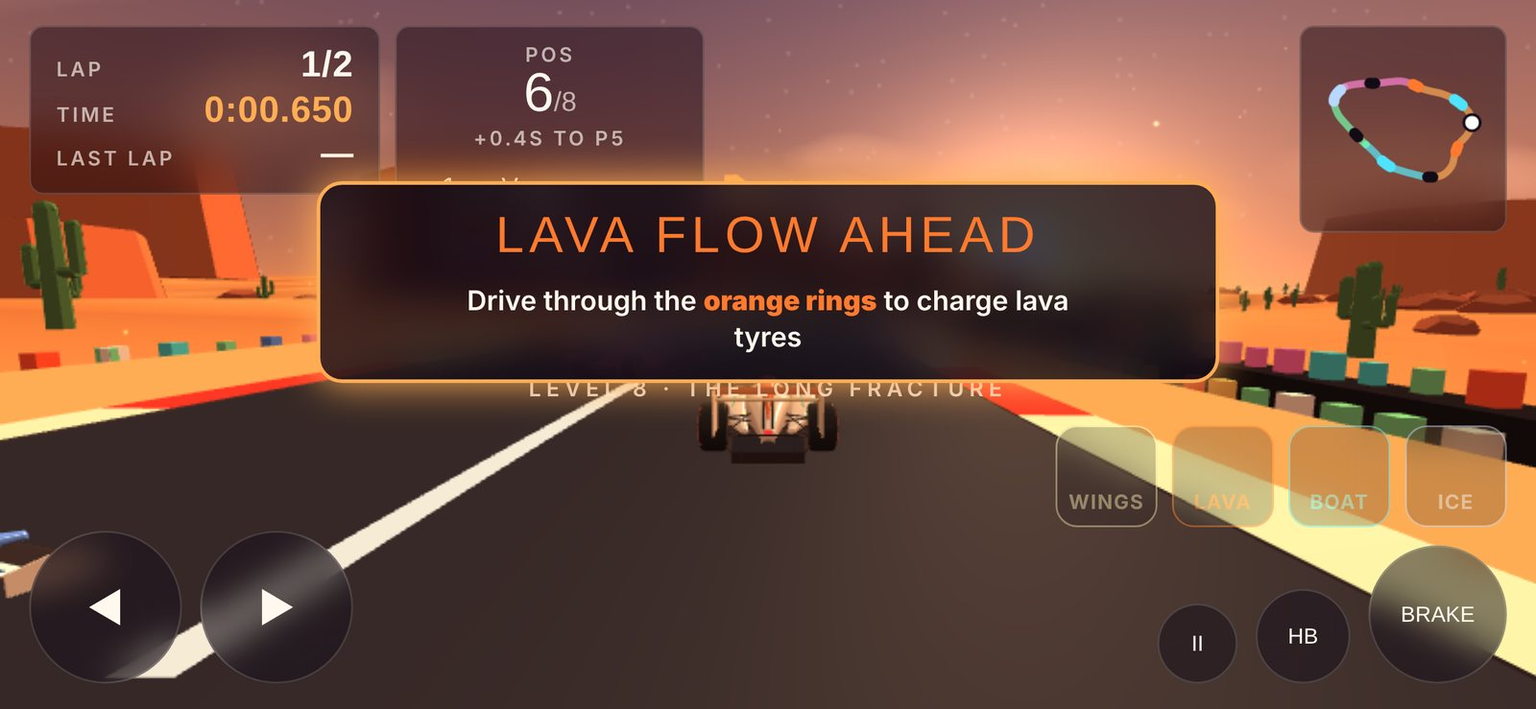
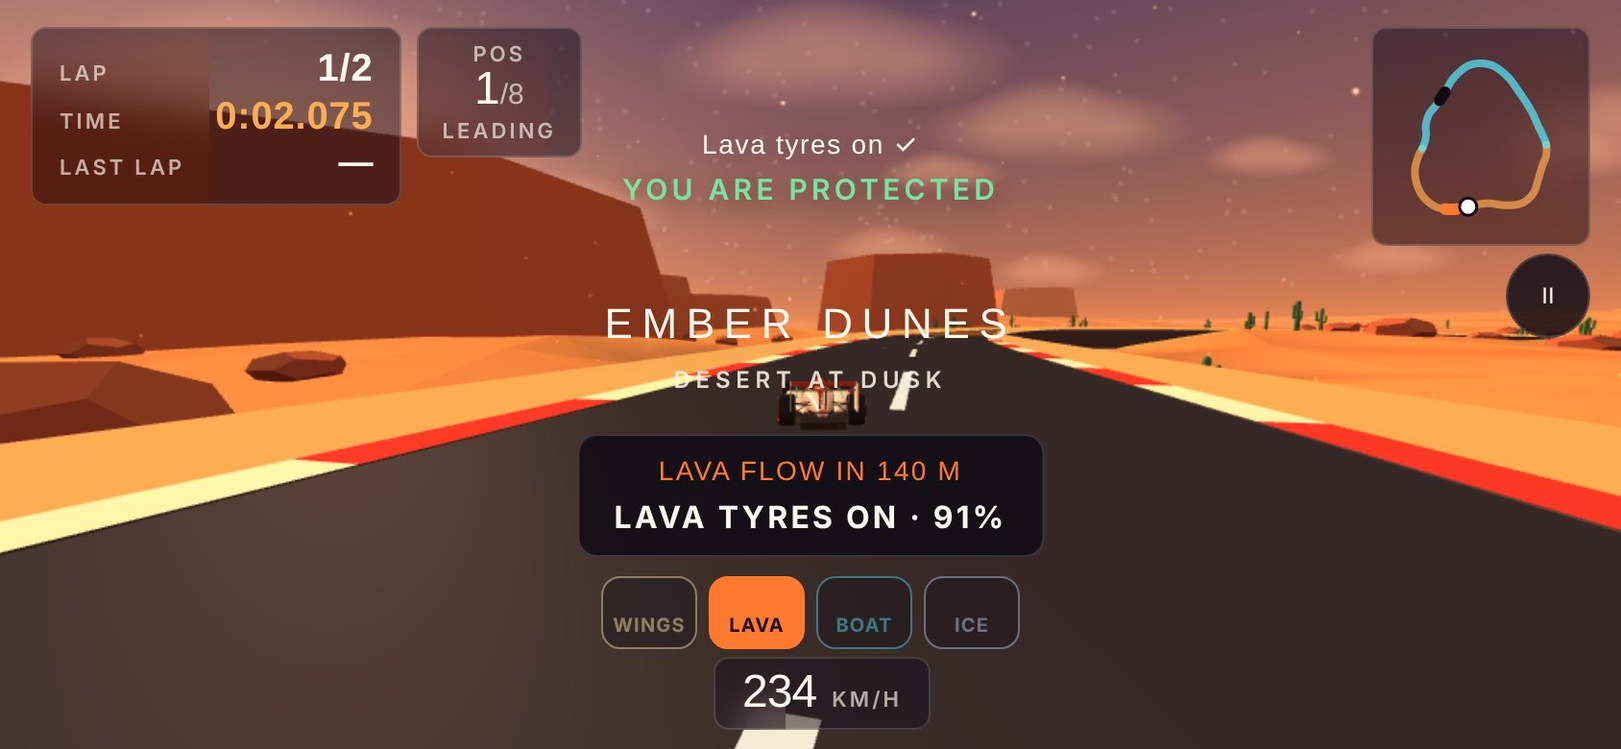
NFS-style touch controls and forced landscape on phones
- Hold left/right half of the screen to steer, swipe up for the power
  needed at the hazard ahead, swipe down to drift, hold both to brake
- Game draws itself sideways when a phone is held upright; tries full
  screen + landscape lock on Android
- Coach overlay during the countdown, swipe wording in tutorials
- Two-column title screen on short landscape screens
- README controls section and phone screenshots updated

Claude-Session: https://claude.ai/code/session_01FSBBRBtWEs9Dybw4UyTyot

diff --git a/css/style.css b/css/style.css
@@ -73,7 +73,7 @@ body:not(.racing) #hud{display:none}
 #zoneBanner .zn{font-family:var(--display);font-size:clamp(22px,5vw,46px);letter-spacing:.22em;text-transform:uppercase;text-shadow:0 4px 30px rgba(0,0,0,.35)}
 #zoneBanner .zs{font-size:15px;letter-spacing:.24em;text-transform:uppercase;opacity:.85;margin-top:8px;font-weight:600}
 #prompt{position:fixed;left:50%;bottom:calc(env(safe-area-inset-bottom,0px) + 150px);transform:translateX(-50%);display:flex;flex-direction:column;align-items:center;gap:6px;pointer-events:none;
-  background:var(--panel-solid);border:1px solid var(--line);border-radius:10px;padding:10px 18px;text-align:center;max-width:calc(100vw - 32px)}
+  background:var(--panel-solid);border:1px solid var(--line);border-radius:10px;padding:10px 18px;text-align:center;max-width:calc(var(--appw,100vw) - 32px)}
 #prompt .ph{font-family:var(--display);font-size:clamp(14px,2.2vw,19px);letter-spacing:.08em;text-transform:uppercase}
 #prompt .pa{font-size:16px;font-weight:700;letter-spacing:.1em;text-transform:uppercase;color:var(--ink);display:flex;align-items:center;gap:8px}
 #prompt kbd{font-size:16px;padding:3px 10px;background:var(--ink);color:#1a0d12;border-color:var(--ink)}
@@ -82,7 +82,7 @@ body:not(.racing) #hud{display:none}
 #prompt .pbar{width:180px;height:6px;border-radius:3px;background:var(--line);overflow:hidden}#prompt .pbar b{display:block;height:100%;background:var(--hot)}
 @keyframes urg{to{box-shadow:0 0 22px var(--accent)}}
 #tutor{position:fixed;left:50%;top:50%;transform:translate(-50%,-30%);pointer-events:none;text-align:center;display:grid;gap:10px;justify-items:center;
-  background:rgba(14,9,20,.78);backdrop-filter:blur(10px);-webkit-backdrop-filter:blur(10px);border:2px solid var(--accent);border-radius:14px;padding:18px 26px 20px;width:min(460px,calc(100vw - 32px));
+  background:rgba(14,9,20,.78);backdrop-filter:blur(10px);-webkit-backdrop-filter:blur(10px);border:2px solid var(--accent);border-radius:14px;padding:18px 26px 20px;width:min(460px,calc(var(--appw,100vw) - 32px));
   animation:tutIn .25s ease-out,urg .6s ease-in-out .25s infinite alternate}
 #tutor .tw{font-family:var(--display);font-size:clamp(18px,3.4vw,28px);letter-spacing:.1em;text-transform:uppercase}
 #tutor .tk{font-family:var(--display);font-size:clamp(20px,4vw,34px);letter-spacing:.06em;text-transform:uppercase;display:flex;align-items:center;gap:12px}
@@ -91,12 +91,12 @@ body:not(.racing) #hud{display:none}
 #tutor .tx{font-size:18px;font-weight:600;line-height:1.3;color:var(--ink);max-width:36ch}
 @keyframes tutIn{from{opacity:0;transform:translate(-50%,-20%) scale(.92)}}
 body:not(.racing) #tutor,body.paused #tutor{display:none}
-@media (pointer:coarse){#tutor{top:34%;padding:12px 16px 14px}#tutor .tx{font-size:15px}}
+
 @media (prefers-reduced-motion:reduce){#tutor{animation:none}}
 #wipe{position:fixed;inset:0;pointer-events:none;background:radial-gradient(ellipse at center,rgba(255,90,40,.0),rgba(255,60,30,.55));opacity:0}
 #wipe.on{animation:wipe .9s ease-out}@keyframes wipe{0%{opacity:1}100%{opacity:0}}
 body:not(.racing) #prompt{display:none}
-@media (pointer:coarse){#prompt{bottom:calc(env(safe-area-inset-bottom,0px) + 190px)}}
+
 @media (prefers-reduced-motion:reduce){#prompt.urgent{animation:none}}
 #gainPop{position:fixed;left:50%;top:60%;transform:translate(-50%,0);font-family:var(--display);font-size:16px;letter-spacing:.06em;text-shadow:0 2px 12px rgba(0,0,0,.6);pointer-events:none;opacity:0}
 #gainPop.show{animation:pop .8s ease-out}
@@ -123,7 +123,7 @@ body.racing:not(.paused) #screens{display:none}
 .intro{display:grid;gap:8px;max-width:48ch}
 .tagline{font-family:var(--display);font-size:clamp(15px,2.2vw,19px);letter-spacing:.06em;text-transform:uppercase;color:var(--ink);margin:0;text-wrap:balance;text-shadow:0 2px 16px rgba(0,0,0,.5)}
 .lede{font-size:17px;line-height:1.42;color:var(--ink);opacity:.82;max-width:48ch;margin:0;text-shadow:0 1px 12px rgba(0,0,0,.55)}
-@media (max-width:560px),(max-height:520px){.lede{font-size:15px;line-height:1.35}.tagline{font-size:14px}}
+
 .modes{display:grid;gap:10px;max-width:420px}
 .mode{display:grid;grid-template-columns:1fr auto;align-items:center;gap:4px 14px;text-align:left;cursor:pointer;background:var(--panel-solid);border:1px solid var(--line);border-radius:10px;padding:16px 18px}
 .mode:hover{border-color:var(--accent)}
@@ -180,41 +180,50 @@ h2{font-family:var(--display);font-weight:400;font-size:clamp(22px,5vw,30px);lin
 kbd{font-family:var(--ui);font-weight:700;font-size:12px;letter-spacing:.06em;color:var(--ink);border:1px solid var(--line);border-bottom-width:2px;border-radius:4px;padding:2px 6px;white-space:nowrap}
 #loading{position:fixed;right:max(20px,env(safe-area-inset-right,0px));bottom:calc(env(safe-area-inset-bottom,0px) + 20px);font-size:13px;letter-spacing:.2em;text-transform:uppercase;color:var(--dim);font-weight:700;pointer-events:none}
 
-/* ---------- Touch ---------- */
+/* ---------- Touch (NFS-style: hold a side to steer, swipe for power / drift) ---------- */
+#app{position:fixed;inset:0;overflow:hidden}
+body.rot #app{inset:auto;top:0;left:0;transform-origin:0 0}
 .touchOnly{display:none}
-#touch{position:fixed;inset:auto 0 0 0;display:none;justify-content:space-between;pointer-events:none;
-  padding-left:max(16px,env(safe-area-inset-left,0px));padding-right:max(16px,env(safe-area-inset-right,0px));padding-block:0 calc(env(safe-area-inset-bottom,0px) + 14px)}
-#touch .grp{display:flex;gap:10px;pointer-events:auto;align-items:flex-end}
-.tbtn{width:62px;height:62px;border-radius:50%;border:1px solid var(--line);background:var(--panel);backdrop-filter:blur(10px);-webkit-backdrop-filter:blur(10px);font-family:var(--display);font-size:12px;display:flex;align-items:center;justify-content:center;touch-action:none;padding:0}
-.tbtn.on{background:var(--accent);color:#1a0d12}
-.tbtn.gas{width:76px;height:76px}
-.tbtn.fly{border-color:var(--wings);color:var(--wings)}
-.tbtn.steer{width:84px;height:84px;font-size:22px}
-#touch .grp.rgt{flex-direction:column;align-items:flex-end;gap:10px}
-.tpows{display:flex;gap:8px}
-.tpw{position:relative;width:56px;height:56px;border-radius:12px;border:1.5px solid var(--c);background:var(--panel-solid);backdrop-filter:blur(10px);-webkit-backdrop-filter:blur(10px);overflow:hidden;padding:0;touch-action:none;display:flex;align-items:flex-end;justify-content:center}
+#touchZone,#touchHud{display:none}
+#touchZone{position:fixed;inset:0;touch-action:none;-webkit-touch-callout:none}
+#touchZone i{position:absolute;top:0;bottom:0;width:50%;opacity:0;transition:opacity .12s}
+#touchZone .tzL{left:0;background:linear-gradient(90deg,rgba(255,248,238,.16),rgba(255,248,238,0) 45%)}
+#touchZone .tzR{right:0;background:linear-gradient(270deg,rgba(255,248,238,.16),rgba(255,248,238,0) 45%)}
+#touchZone i.on{opacity:1}
+#touchHud .tpows{position:fixed;left:50%;transform:translateX(-50%);bottom:calc(env(safe-area-inset-bottom,0px) + 52px);display:flex;gap:6px;z-index:3}
+.tpw{position:relative;width:50px;height:38px;border-radius:10px;border:1.5px solid var(--c);background:var(--panel-solid);overflow:hidden;padding:0;touch-action:none;display:flex;align-items:flex-end;justify-content:center}
 .tpw i{position:absolute;left:0;right:0;bottom:0;height:var(--f,0%);background:var(--c);opacity:.3}
-.tpw span{position:relative;font-size:11px;font-weight:700;letter-spacing:.06em;text-transform:uppercase;padding-bottom:6px;color:var(--c)}
+.tpw span{position:relative;font-size:10px;font-weight:700;letter-spacing:.06em;text-transform:uppercase;padding-bottom:5px;color:var(--c)}
 .tpw.on{background:var(--c)}.tpw.on span{color:#1a0d12}.tpw.on i{opacity:0}
 .tpw.empty{opacity:.4}
-@media (pointer:coarse) and (max-width:520px){
-  .tbtn.steer{width:68px;height:68px}
-  .tpows{display:grid;grid-template-columns:repeat(2,48px);gap:6px}.tpw{width:48px;height:48px;border-radius:10px}.tpw span{font-size:9px;padding-bottom:4px}
-  .tbtn.gas{width:64px;height:64px;font-size:10px}#touch .tbtn[data-k="hb"]{width:44px!important;height:44px!important}#pauseT{width:38px!important;height:38px!important}
-  #prompt{bottom:calc(env(safe-area-inset-bottom,0px) + 230px)}#tutor{top:30%}
-}
-.rotateHint{display:none;font-size:14px;font-weight:600;letter-spacing:.08em;text-transform:uppercase;color:var(--accent)}
-@media (pointer:coarse) and (orientation:portrait){.rotateHint{display:block}}
+.tpause{position:fixed;right:16px;top:132px;width:44px;height:44px;border-radius:50%;border:1px solid var(--line);background:var(--panel-solid);font-family:var(--display);font-size:12px;z-index:3;touch-action:none}
+#coach{position:fixed;inset:0;display:grid;grid-template-columns:1fr auto 1fr;align-items:center;pointer-events:none;z-index:2}
+#coach .ch{display:flex;flex-direction:column;align-items:center;gap:6px;font-size:14px;font-weight:700;letter-spacing:.1em;text-transform:uppercase;text-align:center}
+#coach .ch.l,#coach .ch.r{height:100%;justify-content:center;background:rgba(14,9,20,.35)}
+#coach .ch.l{border-right:1px dashed var(--line)}#coach .ch.r{border-left:1px dashed var(--line)}
+#coach .ch.l b,#coach .ch.r b{font-size:40px;line-height:1;color:var(--accent)}
+#coach .ch.c{align-self:end;margin-bottom:56px;background:var(--panel-solid);border:1px solid var(--line);border-radius:12px;padding:14px 18px;gap:8px;align-items:stretch;text-align:left;margin-inline:-1px}
+#coach .ch.c b{display:inline-block;min-width:40px;color:var(--accent);font-size:16px}
+#coach .ch.c em{font-style:normal;color:var(--accent)}
+#coach .ch.c small{font-size:11px;color:var(--dim);letter-spacing:.12em;text-align:center;margin-top:2px}
 @media (pointer:coarse){
-  #powers{display:none}
-  #zoneBanner{top:44%}#zoneBanner .zn{font-size:22px}#zoneBanner .zs{font-size:12px}
-  body.racing:not(.paused) #touch{display:flex}.touchOnly{display:grid}.deskOnly{display:none!important}
-  #minimap{width:96px;height:96px}#powers{min-width:0;padding:6px 8px;gap:4px}.pw{grid-template-columns:44px 1fr;font-size:11px}.pw span:last-child{display:none}
-  .bar.bottom .tools{display:none}#speedo{display:none}
-  .bar.bottom{position:fixed;left:50%;transform:translateX(-50%);bottom:calc(env(safe-area-inset-bottom,0px) + 100px);width:min(230px,60vw)}
+  #zoneBanner{top:40%}#zoneBanner .zn{font-size:22px}#zoneBanner .zs{font-size:12px}
+  body.racing:not(.paused) #touchZone{display:block}body.racing:not(.paused) #touchHud{display:block}
+  .touchOnly{display:grid}.deskOnly{display:none!important}
+  #minimap{width:96px;height:96px}
+  .bar.bottom .tools,.bar.bottom #powers{display:none}
+  .bar.bottom{position:fixed;left:50%;transform:translateX(-50%);bottom:calc(env(safe-area-inset-bottom,0px) + 10px);justify-content:center}
+  #speedo{display:flex;align-items:baseline;gap:8px;padding:6px 14px;min-width:0}#speedo>.lbl{order:2}#speed{font-size:24px}#rev,#speedo .speedRow{display:none}
+  #prompt{bottom:calc(env(safe-area-inset-bottom,0px) + 100px)}
+  #board{display:none}#posChip{padding:6px 12px}#posVal{font-size:24px}
+  #tutor{top:40%;padding:12px 16px 14px}#tutor .tx{font-size:15px}
+  #msg{top:calc(env(safe-area-inset-top,0px) + 66px)}
 }
-@media (max-width:560px){
-  .timing{padding:8px 10px;column-gap:10px}.val{font-size:15px}.val.big{font-size:15px}#minimap{width:96px;height:96px}
-  #screens{background:rgba(10,5,14,.55)}
-}
+body.narrow .timing{padding:8px 10px;column-gap:10px}body.narrow .val{font-size:15px}body.narrow .val.big{font-size:15px}body.narrow #minimap{width:96px;height:96px}
+body.narrow #screens{background:rgba(10,5,14,.55)}
+body.short .lede{font-size:14px;line-height:1.32}body.short .tagline{font-size:13px}body.short .screen{gap:12px}body.short .mode{padding:10px 14px}body.short .mode b{font-size:16px}body.short .logo img{width:min(380px,100%)}
+body.short .screen.card{padding:16px 16px 14px}
+body.short #scrTitle{width:min(920px,100%);display:grid;grid-template-columns:minmax(0,1.1fr) minmax(0,1fr);column-gap:28px;row-gap:10px;align-items:start;align-content:center}
+body.short #scrTitle .logo{grid-column:1}body.short #scrTitle .intro{grid-column:1}body.short #scrTitle .modes{grid-column:2;grid-row:1/3;align-self:center;max-width:none}
+body.short #scrTitle .lede{font-size:13px}body.short #scrTitle .mode span{font-size:13px}
 @media (prefers-reduced-motion:reduce){.pw.live .m b{animation:none}#gainPop.show{animation:none}#zoneBanner{transition:opacity .2s}}

diff --git a/js/game.js b/js/game.js
@@ -454,19 +454,38 @@ addEventListener('keydown',e=>{
 addEventListener('keyup',e=>{if(keyMap[e.code])keys[keyMap[e.code]]=false;});
 addEventListener('blur',()=>{for(const k in keys)keys[k]=false;});
 document.querySelectorAll('.tpw').forEach(b=>b.addEventListener('pointerdown',e=>{e.preventDefault();toggle(+b.dataset.p);}));
-document.querySelectorAll('.tbtn[data-k]').forEach(b=>{const k=b.dataset.k;
-  const on=e=>{e.preventDefault();keys[k]=true;b.classList.add('on');};const off=()=>{keys[k]=false;b.classList.remove('on');};
-  b.addEventListener('pointerdown',on);b.addEventListener('pointerup',off);b.addEventListener('pointercancel',off);b.addEventListener('pointerleave',off);});
+// Touch: hold left / right half to steer, swipe up = power for the hazard ahead, swipe down = drift, hold both = brake
+const tps=new Map();let hbUntil=0;
+const loc=e=>ROT?{x:e.clientY,y:innerWidth-e.clientX}:{x:e.clientX,y:e.clientY};
+function touchKeys(){let L=false,R2=false,dr=false;for(const p of tps.values()){if(p.g==='up')continue;if(p.side<0)L=true;else R2=true;if(p.g==='down')dr=true;}
+  const both=L&&R2;keys.down=both;keys.left=L&&!both;keys.right=R2&&!both;keys.hb=!both&&(dr||performance.now()<hbUntil);
+  $('touchZone').querySelector('.tzL').classList.toggle('on',L);$('touchZone').querySelector('.tzR').classList.toggle('on',R2);}
+const tz=$('touchZone');
+tz.addEventListener('pointerdown',e=>{e.preventDefault();const q=loc(e);tps.set(e.pointerId,{x0:q.x,y0:q.y,t0:performance.now(),side:q.x<AW/2?-1:1,g:null});try{tz.setPointerCapture(e.pointerId);}catch(_){}touchKeys();});
+tz.addEventListener('pointermove',e=>{const p=tps.get(e.pointerId);if(!p||p.g)return;const q=loc(e),dx=q.x-p.x0,dy=q.y-p.y0;
+  if(Math.abs(dy)>38&&Math.abs(dy)>Math.abs(dx)*1.15&&performance.now()-p.t0<600){p.g=dy<0?'up':'down';if(p.g==='up')smartPower();else{hbUntil=performance.now()+450;tone(180,120,.15,'square',.03);}touchKeys();}});
+const tend=e=>{const p=tps.get(e.pointerId);if(p&&p.g==='down')hbUntil=performance.now()+300;tps.delete(e.pointerId);touchKeys();};
+tz.addEventListener('pointerup',tend);tz.addEventListener('pointercancel',tend);
+setInterval(()=>{if(coarse&&mode==='race')touchKeys();},100);
+function targetPower(){let inside=-1,next=-1,bd=1e9;for(const h of HAZ){const len=h.b-h.a,into=((st.idx-h.a)%M+M)%M;if(into<len)inside=h.t;const d=((h.a-st.idx)%M+M)%M;if(d<bd&&d<420&&into>=len){bd=d;next=h.t;}}return inside>=0?inside:next;}
+function smartPower(){if(mode!=='race'||!race||race.state!=='run')return;const t=targetPower();
+  if(st.on[0]&&st.air&&t!==0){toggle(0);return;}
+  if(t<0){const on=st.on.findIndex(x=>x);if(on>=0){toggle(on);return;}if(st.pw[0]>0){toggle(0);return;}flash('Nothing to power up','Swipe up when a hazard is ahead','');return;}
+  toggle(t);}
+// try real fullscreen + landscape lock on phones (works on Android when hosted on its own site)
+let fsTried=false;function tryLandscape(){if(!coarse||fsTried)return;fsTried=true;try{const el=document.documentElement;const p=el.requestFullscreen?el.requestFullscreen({navigationUI:'hide'}):null;
+  if(p&&p.then)p.then(()=>{try{screen.orientation&&screen.orientation.lock&&screen.orientation.lock('landscape').catch(()=>{});}catch(_){}}).catch(()=>{});}catch(_){}}
+document.querySelectorAll('.mode').forEach(b=>b.addEventListener('pointerdown',tryLandscape));
 function resetToTrack(){if(hzAt(st.idx)===0||st.air){fell();return;}const i=st.idx;st.pos.copy(P(i,0,0));st.h=st.vh=head[i];st.speed=0;flash('Back on track','');}
 function cycleCam(){camMode=(camMode+1)%CAMS.length;$('camName').textContent=CAMS[camMode];}
 $('camBtn').onclick=cycleCam;$('pauseBtn').onclick=togglePause;$('pauseT').onclick=togglePause;
-function togglePause(){if(mode!=='race')return;paused=!paused;document.body.classList.toggle('paused',paused);
+function togglePause(){if(mode!=='race')return;paused=!paused;tps.clear();keys.left=keys.right=keys.down=keys.hb=false;document.body.classList.toggle('paused',paused);
   if(paused){$('pauseTitle').textContent=(race.multi?'Room '+roomCode+' · ':'')+'Level '+(race.li+1)+' · '+LEVELS[race.li].name;$('restartBtn').hidden=race.multi;show('scrPause');$('resumeBtn').focus();engine(false);}
   else{engine(true);}}
 $('resumeBtn').onclick=togglePause;
 $('restartBtn').onclick=()=>{paused=false;document.body.classList.remove('paused');startRace(race.li,race.kind);};
 $('quitBtn').onclick=()=>quitToMenu();
-function quitToMenu(){const wasMulti=race&&race.multi;if(race)lvlMode=race.kind==='gp'?'gp':'single';paused=false;document.body.classList.remove('paused','racing');mode='menu';race=null;engine(false);clearRemotes();clearAI();
+function quitToMenu(){$('coach').hidden=true;tps.clear();const wasMulti=race&&race.multi;if(race)lvlMode=race.kind==='gp'?'gp':'single';paused=false;document.body.classList.remove('paused','racing');mode='menu';race=null;engine(false);clearRemotes();clearAI();
   if(wasMulti){setP({s:'lobby',rr:null,f:null});show('scrLobby');}else show('scrLevels');}
 
 /* ---------- Audio ---------- */
@@ -551,7 +570,7 @@ function physics(dt,canDrive){
   return prev;
 }
 function wipeout(why){const w=$('wipe');w.classList.remove('on');void w.offsetWidth;w.classList.add('on');placeOnGrid(race&&race.multi?race.lane:0);if(race)race.dist=race.lapsDone*M;st.shake=.8;flash(why,'Back to the start line','var(--hot)');tone(300,60,.8,'sawtooth',.07);}
-const AK={up:true,down:false,left:false,right:false,hb:false};function autoK(){AK.up=!keys.down;AK.down=keys.down;AK.left=keys.left;AK.right=keys.right;AK.hb=keys.hb;return AK;}
+const AK={up:true,down:false,left:false,right:false,hb:false};/* auto-throttle on touch */function autoK(){AK.up=!keys.down;AK.down=keys.down;AK.left=keys.left;AK.right=keys.right;AK.hb=keys.hb;return AK;}
 function fell(){placeOnGrid(race&&race.multi?race.lane:0);if(race)race.dist=race.lapsDone*M;st.shake=.7;if(race)flash('Lost to the rift','Back to the start line','var(--hot)');tone(400,90,.7,'sawtooth',.06);}
 
 /* ---------- Race flow ---------- */
@@ -896,7 +915,7 @@ function perfGuard(dt){perfT+=dt;perfN++;if(perfT<3)return;const fps=perfN/perfT
 function render(){if(composer)composer.render();else renderer.render(scene,camera);}
 const ACT=['activate wings','switch on lava tyres','switch on the boat','switch on ice studs'];
 let promptKey='',tutKey='',tutorT=-1,slowMo=false;
-const TUTX=['to spread your wings and fly over the gap. Press again after you land to fold them.','to switch on lava tyres before you hit the lava.','to switch on the boat before the flood.','to switch on ice studs for grip on the ice.'],TUTC=['gold','orange','blue','ice-blue'];
+const TUTX=['to spread your wings and fly over the gap. '+(coarse?'Swipe up':'Press F')+' again after you land to fold them.','to switch on lava tyres before you hit the lava.','to switch on the boat before the flood.','to switch on ice studs for grip on the ice.'],TUTC=['gold','orange','blue','ice-blue'];
 function updPrompt(){
   let best=null,bd=1e9,inside=null;
   for(const h of HAZ){const d=((h.a-st.idx)%M+M)%M,len=h.b-h.a;if(d<=M-len-1&&d<bd&&d<230){bd=d;best=h;}const into=((st.idx-h.a)%M+M)%M;if(into<len)inside=h;}
@@ -917,7 +936,7 @@ function updPrompt(){
   if(best&&!inside&&race&&race.state==='run'){const t=best.t,p=PW[t];
     if((race.li<=2||!prog.seen[t])&&!st.on[t]){
       if(st.pw[t]>0&&bd<120){tk=t;slow=bd<95;
-        tut='<div class="tw" style="color:var('+p.css+')">'+p.hz+' ahead</div><div class="tk">'+(coarse?'Tap <b>'+['WINGS','LAVA','BOAT','ICE'][t]+'</b>':'Press <kbd>'+(t===0?'F':t+1)+'</kbd>')+'</div><div class="tx">'+TUTX[t]+'</div>';}
+        tut='<div class="tw" style="color:var('+p.css+')">'+p.hz+' ahead</div><div class="tk">'+(coarse?'Swipe <b>↑ UP</b>':'Press <kbd>'+(t===0?'F':t+1)+'</kbd>')+'</div><div class="tx">'+TUTX[t]+'</div>';}
       else if(st.pw[t]<=0&&bd<220){tut='<div class="tw" style="color:var('+p.css+')">'+p.hz+' ahead</div><div class="tx">Drive through the <b style="color:var('+p.css+')">'+TUTC[t]+' rings</b> to charge '+p.name.toLowerCase()+'</div>';}}}
   if(inside)for(const h of HAZ){const into=((st.idx-h.a)%M+M)%M;if(into>h.b-h.a-3&&into<h.b-h.a&&!prog.seen[h.t]){prog.seen[h.t]=1;saveProg();}}
   tutorT=tk;slowMo=slow;
@@ -925,7 +944,7 @@ function updPrompt(){
   if(tut)html='';
   const key=html+cls;if(key!==promptKey){promptKey=key;el.innerHTML=html;el.className=cls;el.hidden=!html;}
 }
-const keycap=t=>coarse?'<kbd>Tap '+['WINGS','LAVA','BOAT','ICE'][t]+'</kbd>':'<kbd>'+(t===0?'F':t+1)+'</kbd>';
+const keycap=t=>coarse?'<kbd>Swipe ↑</kbd>':'<kbd>'+(t===0?'F':t+1)+'</kbd>';
 function hudPowers(){for(let k=0;k<4;k++){const b=pwEls[k];b.querySelector('.m b').style.width=st.pw[k]+'%';b.lastElementChild.textContent=st.on[k]?'ON':Math.round(st.pw[k])+'%';b.classList.toggle('has',st.pw[k]>0);b.classList.toggle('live',st.on[k]);}
   if(coarse)document.querySelectorAll('.tpw').forEach((b,k)=>{b.style.setProperty('--f',st.pw[k]+'%');b.classList.toggle('on',st.on[k]);b.classList.toggle('empty',st.pw[k]<=0);});}
 function frame(t){
@@ -953,7 +972,7 @@ function frame(t){
     if(race.countT>0){const m=Math.min(3,n);el.innerHTML='<div class="lights">'+[0,1,2].map(i=>'<i class="'+(i<4-m?'on':'')+'"></i>').join('')+'</div>'+m;}
     else{el.innerHTML='<div class="lights go"><i></i><i></i><i></i></div><span class="go">GO</span>';race.state='run';setLamps(0);race.t0=now;race.lapStart=now;gPtr=0;
       $('zoneName').textContent=ZONES[SEGZ[0]].name;$('zoneSub').textContent='Level '+(race.li+1)+' · '+LEVELS[race.li].name;$('zoneBanner').classList.add('show');bannerT=3;setTimeout(()=>{$('count').hidden=true;},900);}
-    physics(dt,false);updAI(dt,false);setLamps(race.countT);
+    physics(dt,false);updAI(dt,false);setLamps(race.countT);if(coarse&&$('coach').hidden)$('coach').hidden=false;
   }else if(race.state==='run'){
     const prev=physics(dt,canDrive);lapLogic(prev);if(race.gp){updAI(dt,true);collide();}
     if(race.state==='run'){
@@ -964,6 +983,7 @@ function frame(t){
     }
   }else{physics(dt,false);ghost.visible=false;slowMo=false;if(!$('tutor').hidden){$('tutor').hidden=true;tutKey='';}if(race.gp)updAI(dt,true);}
   if(race.state==='run'&&lampsOn&&now-race.t0>1.2){setLamps(-1);}
+  if(!$('coach').hidden&&race.state==='run'&&(now-race.t0>2||tps.size))$('coach').hidden=true;
   placeCar(dt);updTokens(dt);updTrail();updRemotes(dt);updParts(dt);
   {const slip=Math.abs(ang(st.h,st.vh));if(!st.air&&st.speed>14&&(slip>.22||(keys.down&&st.speed>28)))emit(st.pos,0,1);if(hzAt(st.idx)===1&&!st.on[1]&&!st.air)emit(st.pos,1,2);}
   worldUpdate(dt,st.idx,st.pos);updSparkles(dt,st.pos);
@@ -990,8 +1010,13 @@ function frame(t){
   if(bannerT>0){bannerT-=dt;if(bannerT<=0)$('zoneBanner').classList.remove('show');}
   render();drawMap();
 }
-function resize(){const w=window.innerWidth,h=window.innerHeight;renderer.setSize(w,h,false);if(composer)composer.setSize(w,h);camera.aspect=w/h;camera.updateProjectionMatrix();sizeMap();}
-window.addEventListener('resize',resize);
+let ROT=false,AW=innerWidth,AH=innerHeight;
+function layout(){const vw=innerWidth,vh=innerHeight;ROT=coarse&&vh>vw;AW=ROT?vh:vw;AH=ROT?vw:vh;const app=$('app');
+  document.body.classList.toggle('rot',ROT);
+  if(ROT){app.style.width=AW+'px';app.style.height=AH+'px';app.style.transform='translate('+vw+'px,0) rotate(90deg)';}else{app.style.width=app.style.height=app.style.transform='';}
+  document.documentElement.style.setProperty('--appw',AW+'px');document.body.classList.toggle('narrow',AW<=560);document.body.classList.toggle('short',AH<=520);}
+function resize(){layout();const w=AW,h=AH;renderer.setSize(w,h,false);if(composer)composer.setSize(w,h);camera.aspect=w/h;camera.updateProjectionMatrix();sizeMap();}
+window.addEventListener('resize',resize);window.addEventListener('orientationchange',()=>setTimeout(resize,250));
 // boot: the title fly-through uses the four-world level
 buildLevel(4);placeOnGrid(0);show('scrTitle');resize();worldUpdate(0,0,st.pos);refreshEnv();
 requestAnimationFrame(frame);

diff --git a/index.html b/index.html
@@ -8,7 +8,7 @@
 <meta name="theme-color" content="#120b16">
 <meta property="og:title" content="Reverush">
 <meta property="og:description" content="The world is breaking. The race is on. An F1 racer across broken magical worlds: transform your car at the perfect moment to fly over rifts, charge through lava, skim floods and grip the ice.">
-<meta property="og:image" content="assets/screenshots/title.jpg">
+<meta property="og:image" content="assets/screenshots/title.png">
 <meta property="og:type" content="website">
 <meta name="twitter:card" content="summary_large_image">
 <link rel="icon" type="image/png" href="assets/icon.png">
@@ -18,7 +18,9 @@
 <link rel="stylesheet" href="css/style.css">
 </head>
 <body>
+<div id="app">
 <div id="stage"></div>
+<div id="touchZone" aria-hidden="true"><i class="tzL"></i><i class="tzR"></i></div>
 
 <div id="hud">
   <div class="bar">
@@ -58,24 +60,19 @@
 <div id="gainPop" aria-hidden="true"></div>
 <div id="count" hidden></div>
 
-<div id="touch">
-  <div class="grp">
-    <button class="tbtn steer" data-k="left" type="button" aria-label="Steer left">◀</button>
-    <button class="tbtn steer" data-k="right" type="button" aria-label="Steer right">▶</button>
+<div id="touchHud">
+  <div class="tpows">
+    <button class="tpw" data-p="0" type="button" style="--c:var(--wings)" aria-label="Wings on or off"><i></i><span>Wings</span></button>
+    <button class="tpw" data-p="1" type="button" style="--c:var(--lava)" aria-label="Lava tyres on or off"><i></i><span>Lava</span></button>
+    <button class="tpw" data-p="2" type="button" style="--c:var(--boat)" aria-label="Boat on or off"><i></i><span>Boat</span></button>
+    <button class="tpw" data-p="3" type="button" style="--c:var(--ice)" aria-label="Ice studs on or off"><i></i><span>Ice</span></button>
   </div>
-  <div class="grp rgt">
-    <div class="tpows">
-      <button class="tpw" data-p="0" type="button" style="--c:var(--wings)" aria-label="Wings on or off"><i></i><span>Wings</span></button>
-      <button class="tpw" data-p="1" type="button" style="--c:var(--lava)" aria-label="Lava tyres on or off"><i></i><span>Lava</span></button>
-      <button class="tpw" data-p="2" type="button" style="--c:var(--boat)" aria-label="Boat on or off"><i></i><span>Boat</span></button>
-      <button class="tpw" data-p="3" type="button" style="--c:var(--ice)" aria-label="Ice studs on or off"><i></i><span>Ice</span></button>
-    </div>
-    <div style="display:flex;gap:10px;align-items:flex-end">
-      <button class="tbtn" id="pauseT" type="button" aria-label="Pause" style="width:44px;height:44px">II</button>
-      <button class="tbtn" data-k="hb" type="button" aria-label="Handbrake" style="width:52px;height:52px">HB</button>
-      <button class="tbtn gas" data-k="down" type="button" aria-label="Brake">BRAKE</button>
-    </div>
-  </div>
+  <button class="tpause" id="pauseT" type="button" aria-label="Pause">II</button>
+</div>
+<div id="coach" hidden>
+  <div class="ch l"><b>◀</b><span>Hold left<br>to steer</span></div>
+  <div class="ch c"><div><b>↑</b> Swipe up · <em>Power</em></div><div><b>↓</b> Swipe down · <em>Drift</em></div><div><b>◀ ▶</b> Hold both · <em>Brake</em></div><small>The car accelerates by itself</small></div>
+  <div class="ch r"><b>▶</b><span>Hold right<br>to steer</span></div>
 </div>
 
 <div id="screens">
@@ -84,7 +81,6 @@
     <h1 class="logo"><img id="logoImg" src="assets/logo.webp" alt="Reverush" width="1100" height="170"></h1>
     <div class="intro"><p class="tagline">The world is breaking. The race is on.</p>
     <p class="lede">Push full throttle through sunset dunes, turquoise lagoons, enchanted forests and floating crystal peaks. Collect power tokens and transform your car at the perfect moment—unfold wings over broken roads, skim across floods, charge through lava and grip the ice. Chase medal times or race your friends through worlds where the next corner changes everything.</p></div>
-    <p class="rotateHint">Turn your phone sideways for the best view</p>
     <div class="modes">
       <button class="mode" type="button" id="goSingle"><b>Single player</b><span>Time trial on 8 levels. Beat the medal times.</span><i>→</i></button>
       <button class="mode" type="button" id="goGP"><b>Multiplayer</b><span>Race 7 AI drivers. Level 1 is gentle, level 8 is brutal.</span><i>→</i></button>
@@ -104,7 +100,7 @@
       <kbd>Space</kbd><span>Handbrake drift</span>
       <kbd>C · R · P</kbd><span>Camera · reset · pause</span>
     </div>
-    <p class="note touchOnly" id="touchHelp">On a phone the car accelerates by itself. Left thumb steers. Right thumb brakes and taps the power buttons (Wings, Lava, Boat, Ice) to switch them on and off.</p>
+    <p class="note touchOnly" id="touchHelp">On a phone the car accelerates by itself. Hold the left or right side of the screen to steer, swipe up to switch on the power for the hazard ahead, swipe down to drift, and hold both sides to brake.</p>
   </section>
 
   <!-- Multi: name + room -->
@@ -144,6 +140,7 @@
   </section>
 </div>
 <div id="loading" hidden>Building track…</div>
+</div>
 
 <script src="https://cdnjs.cloudflare.com/ajax/libs/three.js/r128/three.min.js"></script>
 <script src="https://cdn.jsdelivr.net/npm/three@0.128.0/examples/js/shaders/CopyShader.js"></script>

diff --git a/README.md b/README.md
@@ -50,9 +50,9 @@ A single lap can pass through several worlds, which blend into each other as you
 |---|---|
 | ![Grid start](assets/screenshots/race-grid.jpg) | ![Lava prompt](assets/screenshots/tutorial-prompt.jpg) |
 
-| Phone (landscape) | Phone (portrait) |
+| Phone controls | Racing on a phone |
 |---|---|
-| ![Phone landscape](assets/screenshots/phone-landscape.jpg) | ![Phone portrait](assets/screenshots/phone-portrait.jpg) |
+| ![Phone controls](assets/screenshots/phone-controls.jpg) | ![Phone race](assets/screenshots/phone-landscape.jpg) |
 
 ## Controls
 
@@ -69,7 +69,18 @@ A single lap can pass through several worlds, which blend into each other as you
 
 **Touch (phones and tablets)**
 
-The car accelerates by itself. Your left thumb steers with the big arrow buttons. Your right thumb brakes and taps the **Wings, Lava, Boat and Ice** buttons, which fill up as you collect tokens. Landscape gives the best view.
+Touch controls follow the *Need for Speed: No Limits* style: no buttons to hunt for, just the two halves of the screen.
+
+| Action | Gesture |
+|---|---|
+| Accelerate | Automatic |
+| Steer | Hold the left or right half of the screen |
+| Switch on the power for the hazard ahead | Swipe up |
+| Drift | Swipe down (keep holding to keep drifting) |
+| Brake | Hold both halves at once |
+| Switch a specific power on or off | Tap its chip above the speed readout |
+
+The game always plays in landscape. If your phone is held upright, the game turns itself sideways so you can simply rotate the phone. On Android, when the game is opened from its own web address, it also tries to go full screen and lock landscape.
 
 ## Publish on GitHub Pages
 
